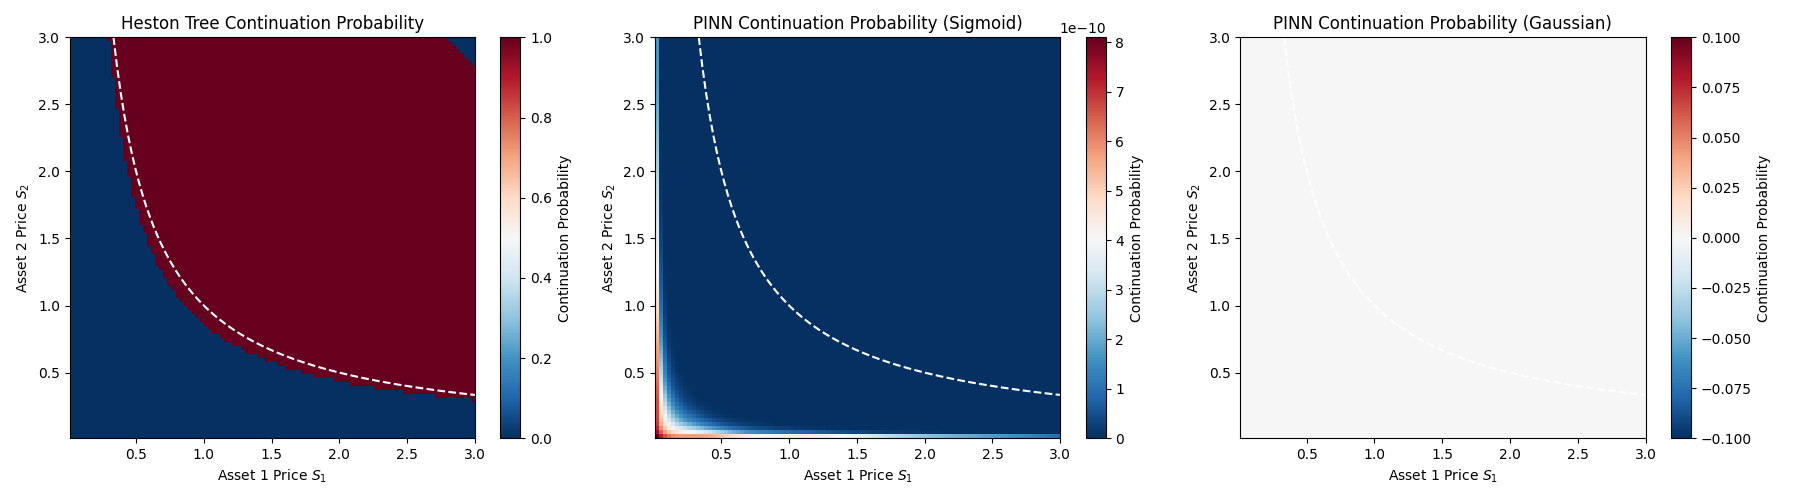
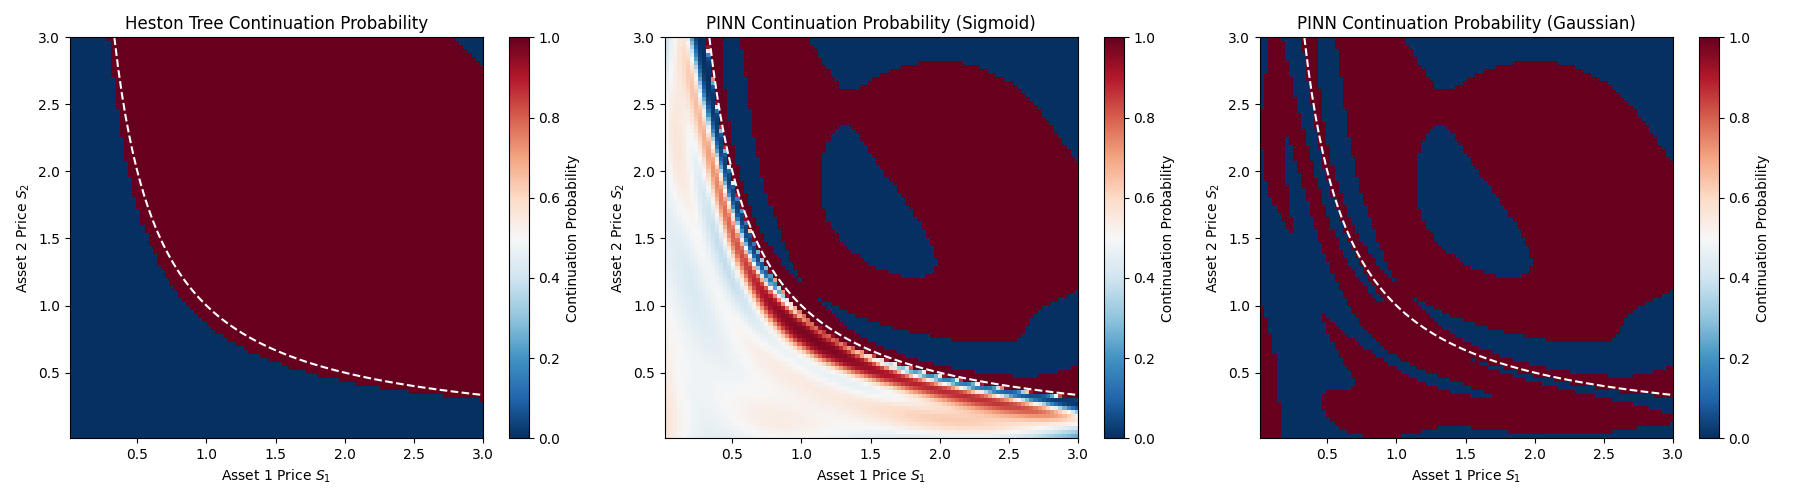
finish heston nd variational inequality derivation

diff --git a/writeup/chapters/heston.tex b/writeup/chapters/heston.tex
@@ -324,8 +324,8 @@ The boundary conditions (2)-(5) together will form the boundary loss (\ref{eq:pi
 
 With the neural network established, we are now ready to move on to pricing options on multiple assets. As with the Black-Scholes case, we will price the put on the product of multiple assets because we can find a one-dimensional reduction. Here, we will consider a simplified model. Suppose we have $n$ assets and our assets $S = (S_1, \dots, S_n)^\top$ are governed by the stochastic differential equations:
 \begin{align}
-    \dd S = \text{diag}(S)(r \,\dd t + \sqrt V \sigma \Sigma \,\dd W_1) \\
-    \dd V = \kappa(\theta - V)\,\dd t + \bar \sigma \sqrt V \,\dd W_2
+    \dd S &= \text{diag}(S)r \,\dd t + \sqrt V \text{diag}(S) \text{diag}(\sigma) \Sigma \,\dd W_1 \\
+    \dd V &= \kappa(\theta - V)\,\dd t + \bar \sigma \sqrt V \,\dd W_2
 \end{align}
 where we have the vector of iid Brownian motions $W_1 = (W_{1, 1}, \dots, W_{1, n})^\top$, variance vector $\sigma = (\sigma_1, \dots, \sigma_n)^\top$ and the covariance matrix $\Sigma$, where for simplicity we will assume all cross-correlations $\Sigma_{ij} = \rho$ for $i \ne j$. Assume additionally that each asset is correlated with the variance process: $\dd W_{1, j} \dd W_2 =\rho_j \dd t$. Note that this means the asset $S_i$ satisfies
 \begin{equation}
@@ -395,20 +395,20 @@ which is a new CIR process $\tilde V$ with parameters $\tilde \kappa = \kappa$, 
 
 \subsection{Variational equation}
 
-Recall for a process $X_t \in \mathbb R^d$ solving $\mathrm dX_t = b(X_t)\mathrm dt + \sigma(X_t)\mathrm dW_t$, the infinitesimal generator $\mathcal L$ can be derived with Itô's formula \cite{pham2009continuous} on $f(x)$ to be
+Recall for a process $X_t \in \mathbb R^n$ solving $\mathrm dX_t = b(X_t)\mathrm dt + \sigma(X_t)\mathrm dW_t$, the infinitesimal generator $\mathcal L$ can be derived with Itô's formula \cite{pham2009continuous} on $f(x)$ to be
 \begin{equation}
 \mathcal{L}[f](x)
-= \sum_{i=1}^d b_i\frac{\partial f}{\partial x_i}
-+ \frac12 \sum_{i=1}^d\sum_{j=1}^d
+= \sum_{i=1}^n b_i\frac{\partial f}{\partial x_i}
++ \frac12 \sum_{i=1}^n\sum_{j=1}^n
 \Sigma_{ij} \frac{\partial ^2 f}{\partial x_i\partial x_j}
 \label{eq:generator_general}
 \end{equation}
 where $b_i$ is the $i$-th component of the drift vector $b(x)$ and $\Sigma_{ij}$ is the $(i, j)$-th component of the covariance matrix $\Sigma(x) = \sigma(x)\sigma(x)^\top$.
 
-In our case, we have a function $f = f(S_1, \dots, S_d, V)$, and we can derive the infinitesimal generator much like the 1D case, but this time we need to sum over our different asset and variance processes. The drift vector is easy to see by looking at the SDEs, which is
+In our case, we have a function $f = f(S_1, \dots, S_n, V)$, and we can derive the infinitesimal generator much like the 1D case, but this time we need to sum over our different asset and variance processes. The drift vector is easy to see by looking at the SDEs, which is
 \begin{equation}
     b(S, V) = \begin{pmatrix}
-        rS_1 \\ \vdots \\ rS_d \\ \kappa(\theta - V)
+        rS_1 \\ \vdots \\ rS_n \\ \kappa(\theta - V)
     \end{pmatrix}
 \end{equation}
 
@@ -430,15 +430,26 @@ and the we can substitute the decomposition of $\mathrm dW_2$ into the variance 
 We can now read off the variance matrix
 \begin{equation}
     \sigma(S, V) = \begin{pmatrix}
-        \sqrt V \,\text{diag}(S) \,\text{diag}(\sigma) \Sigma & \bm 0_n \\
+        \sqrt V \,\text{diag}(S) \,\text{diag}(\sigma) \Sigma & 0_n \\
         \bar \sigma \sqrt V \rho^\top & \bar\sigma \sqrt V \sqrt{1 - |\rho|^2}
+    \end{pmatrix}
+\end{equation}
+which is written in block form: $\sqrt V \text{diag}(S)\text{diag}(\sigma)\Sigma$ is the $n\times n$ block for the assets, $0_n$ is the $n$-dimensional zero vector for the lack of contribution of the variance Brownian motion in the assets (due to independence), $\bar\sigma \sqrt V \rho^\top$ is the $1\times n$ block fo the contribution of the asset Brownian motions to the variance process, and $\bar\sigma \sqrt V \sqrt{1 - |\rho|^2}$ is the $1\times 1$ block for the contribution of the variance Brownian motion to the variance process. We can then compute the covariance matrix $\tilde \Sigma$ (to differentiate it from $\Sigma$ for the asset correlations) as
+\begin{equation}
+    \tilde \Sigma = \sigma(S, V)\sigma(S, V)^\top = \begin{pmatrix}
+        V \text{diag}(S) \text{diag}(\sigma) \tilde \Sigma^2 \text{diag}(\sigma) \text{diag}(S) & V\bar\sigma \text{diag}(S) \text{diag}(\sigma) \Sigma \rho \\
+        V\bar\sigma \rho^\top \text{diag}(\sigma) \text{diag}(S) & \bar\sigma^2 V
     \end{pmatrix}
 \end{equation}
 
 Therefore, by plugging it into the formula (\ref{eq:generator_general}), our generator can be expressed to be
 \begin{align}
-    \mathcal L[f] &= \sum_{i=1}^d rS_i \frac{\partial f}{\partial S_i} +  \kappa(\theta - V)\frac{\partial f}{\partial V} + \frac 12 \sum_{i=1}^d\sum_{j=1}^d \Sigma_{ij} VS_iS_j \frac{\partial^2f}{\partial S_i\partial S_j} \\
-    &+ \frac 12  \bar\sigma^2V \frac{\partial^2f}{\partial V^2} + \sum_{i=1}^d \rho_i \sigma_i \bar\sigma V_iS_i \frac{\partial^2f}{\partial S_i\partial V}
+    \mathcal L[f] &=
+        \sum_{i=1}^n rS_i \frac{\partial f}{\partial S_i}
+        + \kappa(\theta - V)\frac{\partial f}{\partial V}
+        + \frac 12 V \sum_{i=1}^n\sum_{j=1}^n \sigma_i \sigma_j (\Sigma^2)_{ij} S_i S_j \frac{\partial^2f}{\partial S_i\partial S_j} \\
+        &+ \frac 12 \bar\sigma^2 V \frac{\partial^2f}{\partial V^2}
+        + \sum_{i=1}^n \bar\sigma \sigma_i (\Sigma \rho)_i V S_i \frac{\partial^2f}{\partial S_i\partial V}
 \end{align}
 
 For any payoff $g(\cdot)$, we have, as before, the variational equation for an European option being

diff --git a/config/heston_nd.py b/config/heston_nd.py
@@ -29,7 +29,7 @@ V_max = 4 * v0
 
 model_config = ModelConfig(
     input_size=4,
-    hidden_sizes=[128, 128, 128, 128],
+    hidden_sizes=[64, 64, 64, 64],
     output_size=1,
     activation=nn.Tanh(),
     learning_rate=0.001,